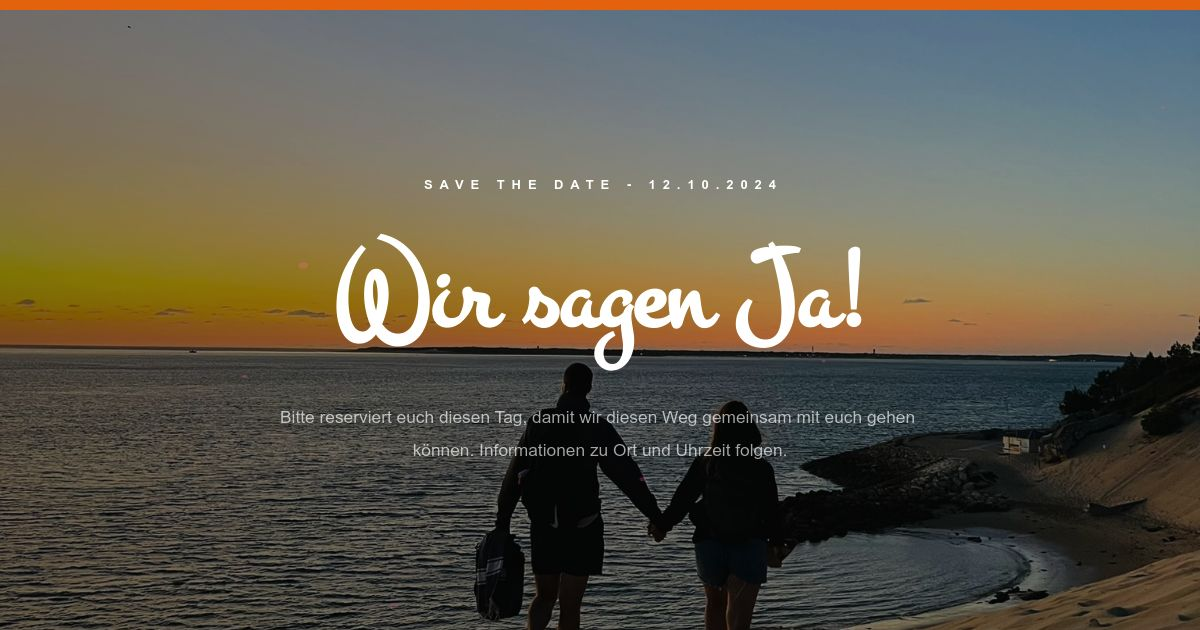
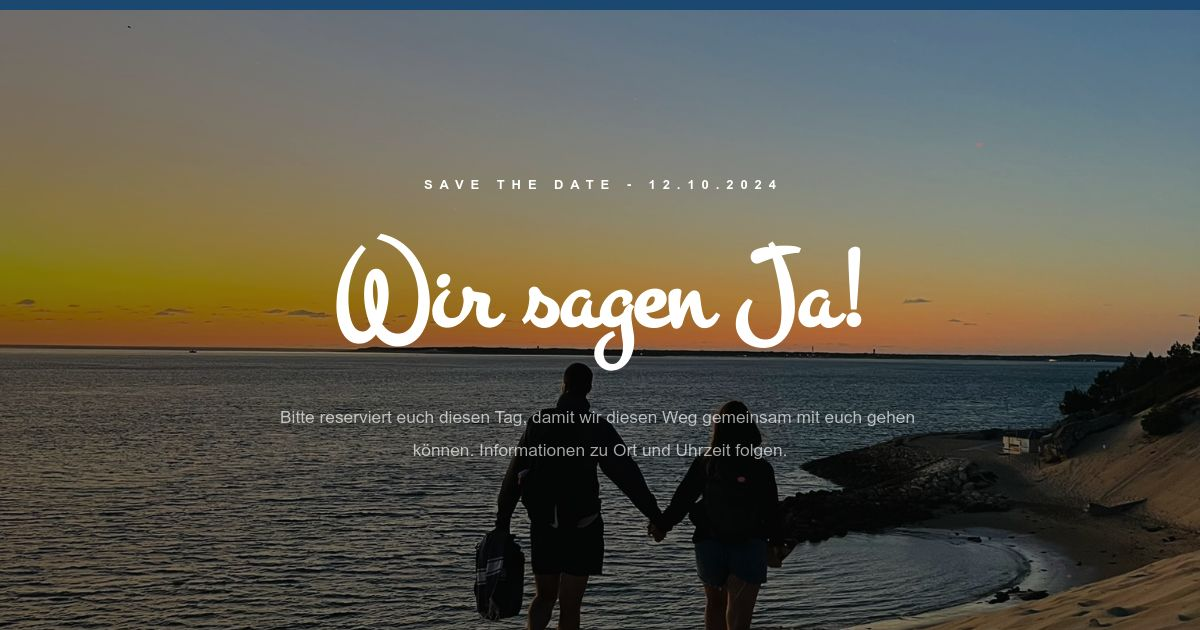
up2date

Changed region(s): [[0.0, 0.0, 1.0, 0.0302]]

diff --git a/index.html b/index.html
@@ -4,11 +4,11 @@
     <title>Wir sagen Ja!</title>
     <meta charset="utf-8" />
     <meta name="viewport" content="width=device-width,initial-scale=1" />
-    <meta name="description" content="Bitte reserviert euch diesen Tag, damit wir diesen Weg gemeinsam mit euch gehen können. Informationen zu Ort und Uhrzeit folgen." />
+    <meta name="description" content="&lt;i&gt;Bitte reserviert diesen Tag, damit wir unseren Weg gemeinsam mit euch gehen können.&lt;/i&gt;" />
     <meta property="og:site_name" content="Wir sagen Ja!" />
     <meta property="og:title" content="Wir sagen Ja!" />
     <meta property="og:type" content="website" />
-    <meta property="og:description" content="Bitte reserviert euch diesen Tag, damit wir diesen Weg gemeinsam mit euch gehen können. Informationen zu Ort und Uhrzeit folgen." />
+    <meta property="og:description" content="&lt;i&gt;Bitte reserviert diesen Tag, damit wir unseren Weg gemeinsam mit euch gehen können.&lt;/i&gt;" />
     <meta property="og:image" content="https://moritzundlaura.de/preview-images/moritzundlaura.jpg" />
     <meta property="og:image:type" content="image/jpeg" />
     <meta property="og:image:width" content="1280" />
@@ -23,14 +23,15 @@
     <link rel="stylesheet" href="/assets/modern-2/css/main.css" />
 
     
+
     <style>
       :root {
         --primary-color: rgb(34,91,132);
 
         --primary-color-dark: rgb(161,121,10);
 
-        --header-image-url: url(https://moritzundlaura.de/assets/IMG_9806.JPEG);
-        --b2-image-url: url(https://moritzundlaura.de/assets/IMG_9806.JPEG);
+        --header-image-url: url(https://moritzundlaura.de/IMG_9806.JPEG);
+        --b2-image-url: url(https://moritzundlaura.de/IMG_9806.JPEG);
         --b4-image-url: url();
         --b6-image-url: url();
         --b8-image-url: url();
@@ -68,7 +69,7 @@
                   id="headerHeading"
                   class="style1"
                 >Wir sagen Ja!</h1>
-                <p id="headerText" class="style3">Bitte reserviert diesen Tag, damit wir diesen Weg gemeinsam mit euch gehen können. Informationen zu Ort und Uhrzeit folgen.</p>
+                <p id="headerText" class="style3"><i>Bitte reserviert diesen Tag, damit wir unseren Weg gemeinsam mit euch gehen können.</i></p>
 
                 
               </div>
@@ -85,18 +86,10 @@
                 <p
                   id="cb1SubHeading"
                   class="style2 white"
-                >Hotelinformationen</p>
-                <h2 id="cb1Heading" class="style1">Übernachtung?</h2>
-                <p id="cb1Text" class="style3"><i>Hotels in der Nähe:
- 
-NYCE - 400 Meter entfernt 
-BB Hotel - 
- 
-
-
-Wenn ihr einen Wohnwagen habt könnt Ihr kostenlos den eigenen und abgetrennten Parkplatz der Location nutzen. 
-
-</i></p>
+                >    </p>
+                <h2 id="cb1Heading" class="style1">Feier</h2>
+                <p id="cb1Text" class="style3"><br/><i>Die Feier findet in Ulm statt.
+Informationen zu Ort und Uhrzeit folgen. </i></p>
 
                 
               </div>
@@ -104,7 +97,35 @@ Wenn ihr einen Wohnwagen habt könnt Ihr kostenlos den eigenen und abgetrennten 
           </div>
 
           <!-- Content-Block 2 -->
-          
+          <div
+            id="content-block-2"
+            class="style1 container default full screen"
+          >
+            <div class="wrapper">
+              <div class="inner" data-onvisible-trigger="1">
+                <p
+                  id="cb2SubHeading"
+                  class="style2 white"
+                >  </p>
+                <h2 id="cb2Heading" class="style1">Übernachten</h2>
+                <p id="cb2Text" class="style3"><i>Fußläufige Hotels:
+ 
+NYCE - 5 min. 
+EconomyHotel - 5 min.
+Restaurant Löwen - 15 min.
+BB Hotel - 15 min.
+me and all - 20 min.
+ 
+
+Wenn ihr einen Wohnwagen habt könnt Ihr kostenlos den separaten Parkplatz der Location nutzen. 
+
+Bei Fragen meldet euch gerne!
+</i></p>
+
+                
+              </div>
+            </div>
+          </div>
 
           <!-- Content-Block 3 -->
           
